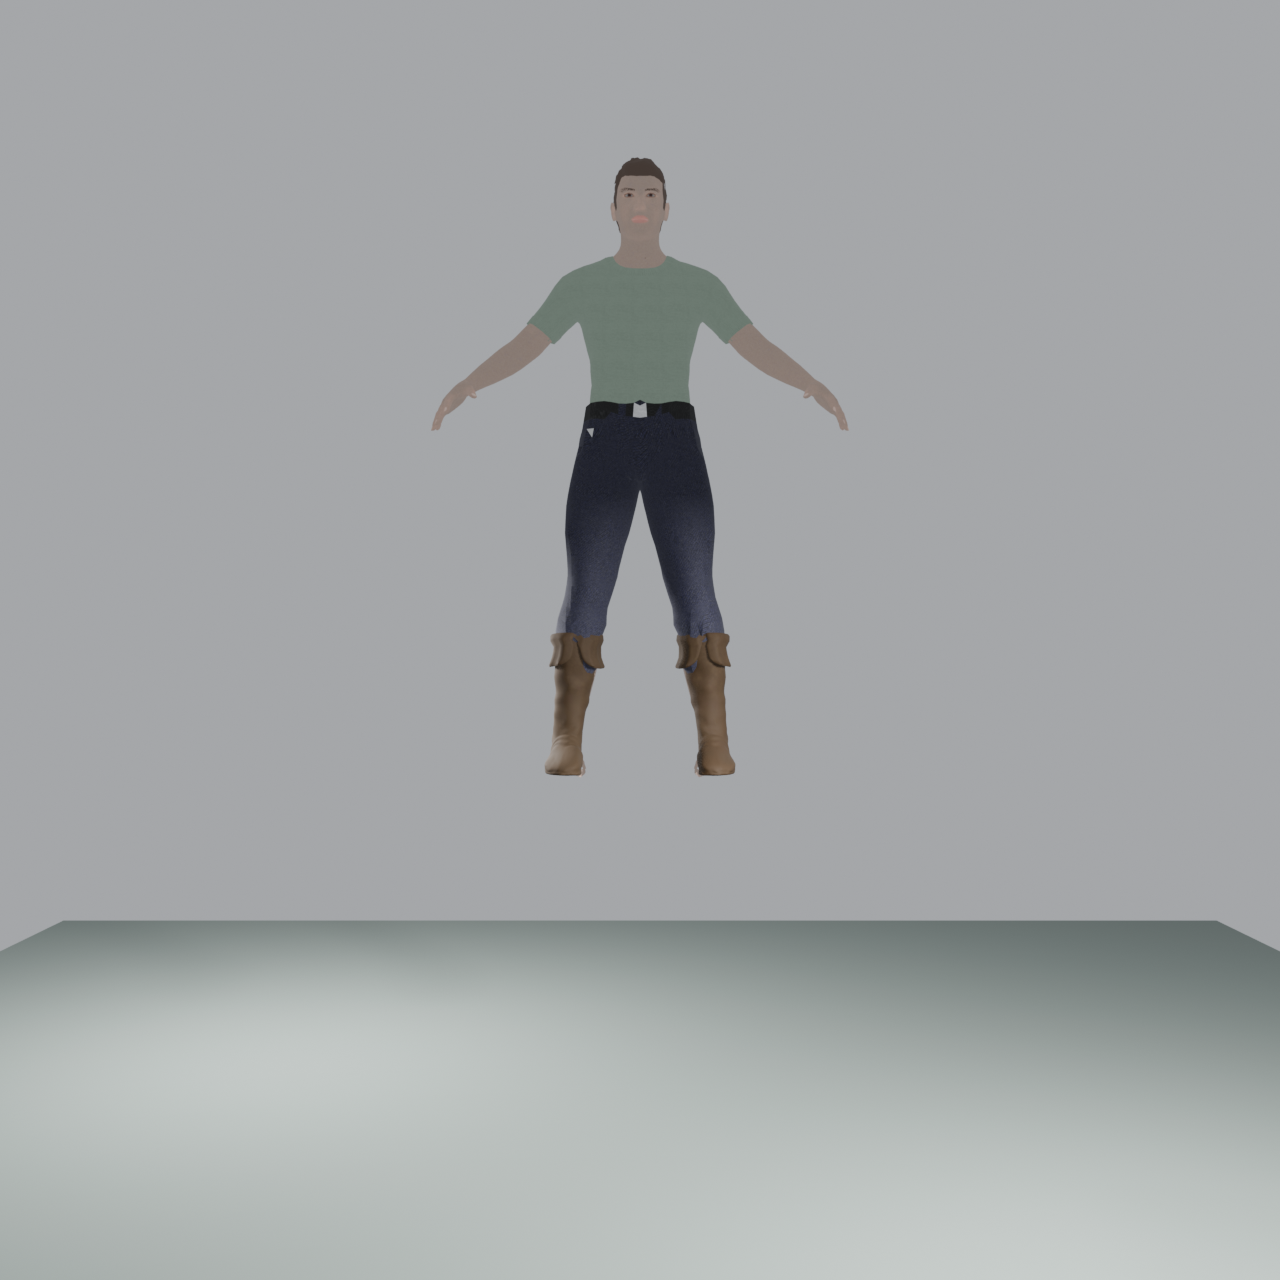
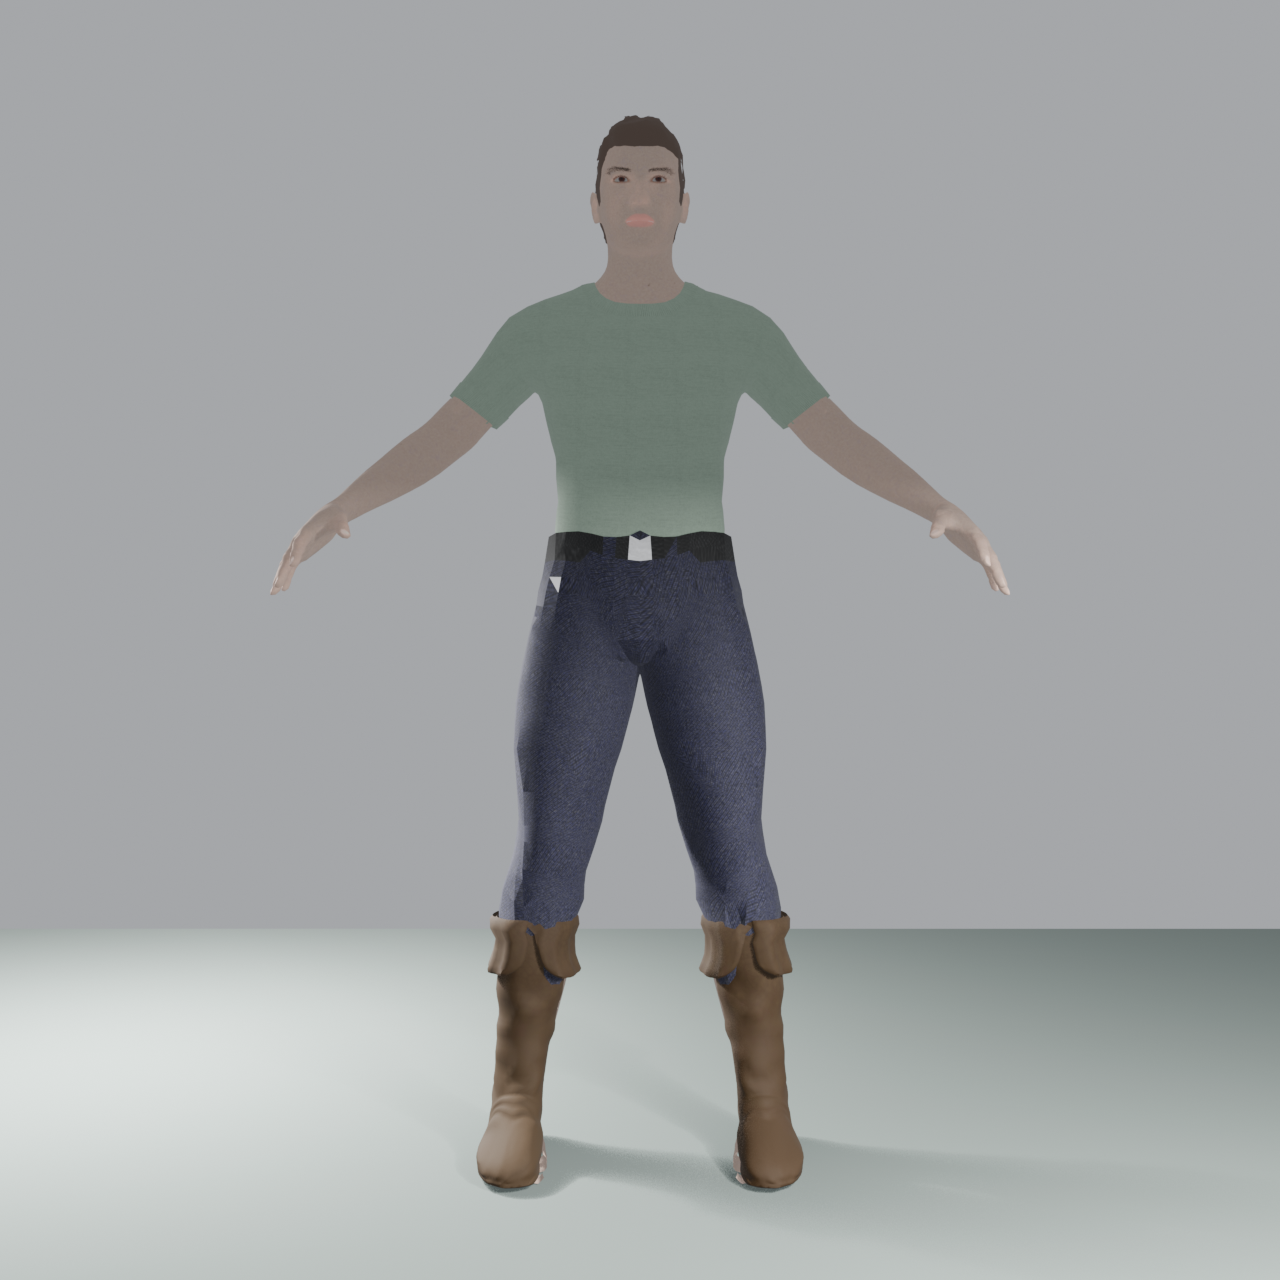
fix(assets): street grade floor sits under soles, not the Icosphere
Parallel diagnosis: feet-off-floor was world_mesh_bounds including an
unparented MPFB Icosphere (z=-1). Skip it; dump-bounds asserts floorZ~0.
Even key/fill (130/150) for shin falloff. NodeIO cuff/sole clauses on
the street GLB. Tuck and feet_on_ground already fire; no rematerialize.

Changed region(s): [[0.0, 0.0938, 1.0, 1.0]]

diff --git a/tools/openclinxr/evidence/the-street-pants-are-makeclothes-not-a-cover-shell.test.ts b/tools/openclinxr/evidence/the-street-pants-are-makeclothes-not-a-cover-shell.test.ts
@@ -162,6 +162,8 @@ type StreetRow = {
   pantsYMin: number;
   pantsYMax: number;
   shirtYMin: number;
+  bootYMin: number;
+  bootYMax: number;
 };
 
 const io = new NodeIO();
@@ -175,12 +177,15 @@ async function measureStreet(): Promise<StreetRow> {
   let pantsYMin = Infinity;
   let pantsYMax = -Infinity;
   let shirtYMin = Infinity;
+  let bootYMin = Infinity;
+  let bootYMax = -Infinity;
   for (const mesh of doc.getRoot().listMeshes()) {
     for (const prim of mesh.listPrimitives()) {
-      const name = prim.getMaterial()?.getName() ?? "";
+      const name = prim.getMaterial()?.getName() ?? mesh.getName() ?? "";
       const pants = isPantsName(name);
       const shirt = isUpperGarmentName(name);
-      if (!pants && !shirt) continue;
+      const boot = /footwear|boot/i.test(name);
+      if (!pants && !shirt && !boot) continue;
       const pos = prim.getAttribute("POSITION");
       if (!pos) continue;
       const v = [0, 0, 0];
@@ -198,9 +203,12 @@ async function measureStreet(): Promise<StreetRow> {
         pantsTris = idx ? idx.getCount() / 3 : 0;
         pantsYMin = lo;
         pantsYMax = hi;
-      } else {
+      } else if (shirt) {
         shirtName = name;
         shirtYMin = Math.min(shirtYMin, lo);
+      } else {
+        bootYMin = Math.min(bootYMin, lo);
+        bootYMax = Math.max(bootYMax, hi);
       }
     }
   }
@@ -213,6 +221,8 @@ async function measureStreet(): Promise<StreetRow> {
     pantsYMin,
     pantsYMax,
     shirtYMin,
+    bootYMin,
+    bootYMax,
   };
 }
 
@@ -256,5 +266,21 @@ describe("the street pants are MakeClothes, not a cover shell", () => {
       row.pantsYMin,
       `${row.actor} pants ymin ${row.pantsYMin.toFixed(4)} m > ${PANTS_YMIN_MAX_M} — trousers cropped off the ankle`,
     ).toBeLessThanOrEqual(PANTS_YMIN_MAX_M);
+  });
+
+  it("(4) RED: pants hem is not perched on the boot rim (ymin below boot ymax by >= 20 mm)", () => {
+    expect(Number.isFinite(row.bootYMax), "street GLB must carry footwear").toBe(true);
+    const gap = row.bootYMax - row.pantsYMin;
+    expect(
+      gap,
+      `${row.actor} pants ymin ${row.pantsYMin.toFixed(4)} vs boot ymax ${row.bootYMax.toFixed(4)} (gap ${gap.toFixed(4)} m) — cuff sitting on the boot rim`,
+    ).toBeGreaterThanOrEqual(0.02);
+  });
+
+  it("(5) RED: boot soles meet the ground (ymin <= 20 mm)", () => {
+    expect(
+      row.bootYMin,
+      `${row.actor} boot ymin ${row.bootYMin.toFixed(4)} m — soles lifted off the ground plane`,
+    ).toBeLessThanOrEqual(0.02);
   });
 });

diff --git a/tools/openclinxr/evidence/the-isolated-grade-bake-has-ambient-world-light.test.ts b/tools/openclinxr/evidence/the-isolated-grade-bake-has-ambient-world-light.test.ts
@@ -121,4 +121,36 @@ describe("the isolated grade bake has ambient world light", () => {
       `public still corner luma ${mean.toFixed(1)} looks like the key-only black void (ceiling ${KEY_ONLY_BLACK_LUMA_CEILING})`,
     ).toBeGreaterThan(KEY_ONLY_BLACK_LUMA_CEILING);
   });
+
+  it("(5) dump-bounds floorZ sits under the soles, not under the stray Icosphere (z=-1)", () => {
+    const blender = spawnSync("which", ["blender"], { encoding: "utf8" });
+    if (blender.status !== 0) {
+      expect(existsSync(GRADE_PY), "blender missing; grade script must still exist").toBe(true);
+      return;
+    }
+    const glb = join(REPO_ROOT, "apps/ui-xr/public/generated-humanoids/mpfb-street-adult-male.glb");
+    const run = spawnSync(
+      "blender",
+      [
+        "--background",
+        "--python",
+        GRADE_PY,
+        "--",
+        "--dump-bounds",
+        "--glb",
+        glb,
+        "--out",
+        join(REPO_ROOT, "tools/openclinxr/asset-pipeline/makeclothes/.dump-bounds-unused.png"),
+      ],
+      { encoding: "utf8", timeout: 90_000 },
+    );
+    const blob = `${run.stdout}\n${run.stderr}`;
+    const match = blob.match(/\{[^{}]*"floorZ"\s*:\s*(-?[0-9.]+)[^{}]*\}/);
+    expect(match, `dump-bounds produced no AABB JSON: ${blob.slice(-600)}`).toBeTruthy();
+    const parsed = JSON.parse(match![0]) as { floorZ: number };
+    expect(
+      parsed.floorZ,
+      `grade floorZ ${parsed.floorZ} is the Icosphere basement (~-1), not the soles (~0)`,
+    ).toBeGreaterThan(-0.05);
+  });
 });

diff --git a/tools/openclinxr/asset-pipeline/makeclothes/finished_figure_grade.py b/tools/openclinxr/asset-pipeline/makeclothes/finished_figure_grade.py
@@ -104,6 +104,11 @@ def parse_args() -> argparse.Namespace:
         action="store_true",
         help="Print applied world/key/fill JSON and exit (no GLB, no PNG)",
     )
+    p.add_argument(
+        "--dump-bounds",
+        action="store_true",
+        help="Import --glb, print subject AABB JSON (Icosphere excluded), exit",
+    )
     return p.parse_args(args)
 
 
@@ -115,12 +120,26 @@ def clear_scene() -> None:
             block.remove(b)
 
 
+def _is_grade_subject_mesh(obj: Any) -> bool:
+    """Skip unparented helper meshes (MPFB Icosphere z=-1) so the floor sits under soles."""
+    if obj.type != "MESH":
+        return False
+    name = (obj.name or "").lower()
+    if "icosphere" in name:
+        return False
+    keep = ("mpfb", "makeclothes", "openclinxr", "garment", "body")
+    if any(tok in name for tok in keep):
+        return True
+    parent = obj.parent
+    return parent is not None and parent.type == "ARMATURE"
+
+
 def world_mesh_bounds() -> Optional[Tuple[Vector, Vector]]:
     mins = [1e9, 1e9, 1e9]
     maxs = [-1e9, -1e9, -1e9]
     any_mesh = False
     for obj in bpy.data.objects:
-        if obj.type != "MESH":
+        if not _is_grade_subject_mesh(obj):
             continue
         any_mesh = True
         for corner in obj.bound_box:
@@ -183,6 +202,17 @@ def main() -> None:
     if bounds is None:
         raise SystemExit("no meshes after import")
     bmin, bmax = bounds
+    print(
+        json.dumps(
+            {
+                "bmin": [bmin.x, bmin.y, bmin.z],
+                "bmax": [bmax.x, bmax.y, bmax.z],
+                "floorZ": bmin.z - 0.001,
+            }
+        )
+    )
+    if args.dump_bounds:
+        return
     center = (bmin + bmax) * 0.5
     height = max(0.01, bmax.z - bmin.z)
     width = max(0.01, bmax.x - bmin.x)
